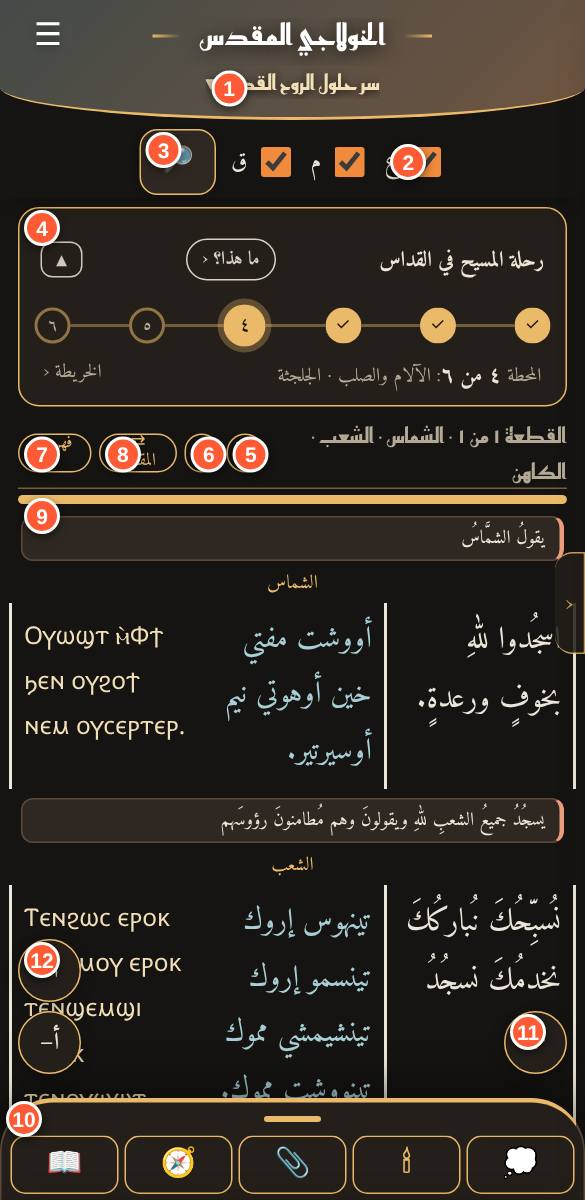
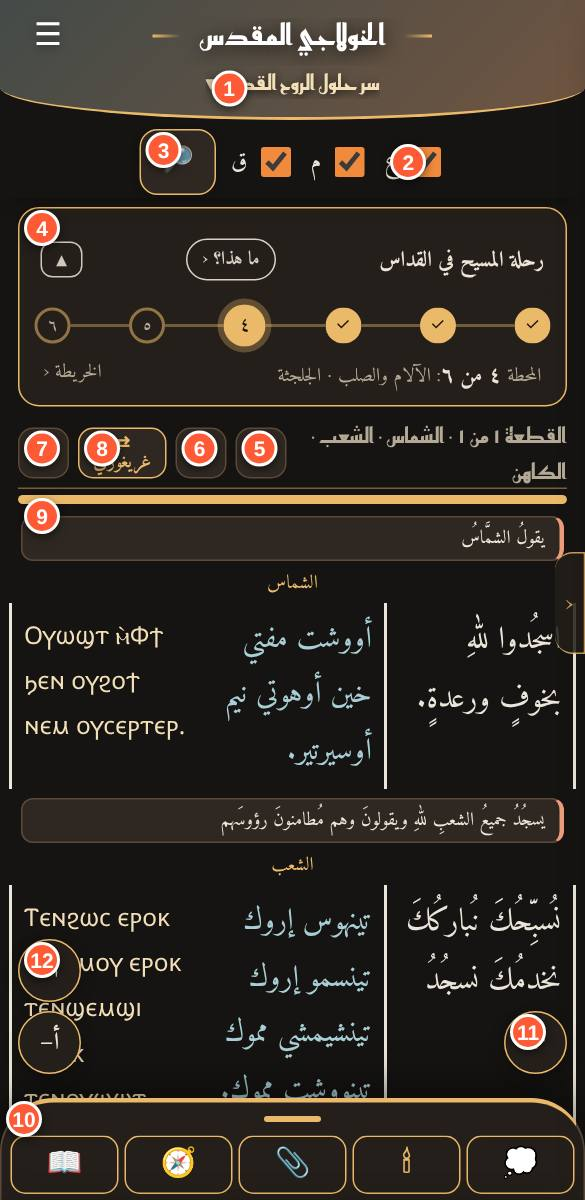
زر المقابل بضغطة واحدة، تمييز صلاتي الصلح، وترتيب أزرار رأس القراءة (r137)
Claude-Session: https://claude.ai/code/session_01TxsQH8W41ZBNhnMhe9bVaK

Changed region(s): [[0.0308, 0.3392, 0.4923, 0.4008]]

diff --git a/index.html b/index.html
@@ -764,6 +764,7 @@ html.ix-open #dxfab,html.ix-open #qfs{display:none!important}
 :root:root .wh{font-family:var(--ff-wh,"Tajawal","Cairo",sans-serif)}
 .ffr{display:grid;grid-template-columns:7.5em 1fr;gap:4px 10px;align-items:center;margin:8px 0}.ffr span{font-size:.9rem;color:var(--mute)}.ffr select{padding:8px;border:1.5px solid var(--line);border-radius:10px;background:var(--card2);color:var(--ink);font-family:inherit}.ffr em{grid-column:1/-1;font-style:normal;font-size:1.1rem;opacity:.9}
 .syb{color:var(--acc);font-weight:700}
+.unh .unhb{gap:6px}.unh .unhb button{height:34px;min-width:34px;padding:0 9px;font-size:1rem;border:1px solid var(--line);border-radius:10px;background:var(--card2);color:var(--ink);display:inline-flex;align-items:center;justify-content:center;gap:4px}.unh .unhb .whb{width:34px;padding:0;font-size:1rem}.unh .unhb .syb{font-size:.78rem;font-weight:700;color:var(--acc);border-color:var(--acc)}
 </style>
 </head>
 <body>
@@ -931,7 +932,8 @@ function plain(t){return String(t).replace(/<[^>]*>/g,"").replace(/\[\^\d+\]/g,"
 function unitParts(id,s,c,us,u,q,cols){
   var U=us[u],n=us.length,isDox=s.group.id==="dox",st={alt:0,dr:S.ex==="drawer"},pct=Math.round((u+1)/n*100);
   var si=(S.story!==false&&window.KST)?storyIdx(id):-1,few=U.med.length<=2;
-  var inner=(si>=0?stripHtml(si):'')+'<div class="unh"><span>القطعة '+ar9(u+1)+' من '+ar9(n)+(U.who?' · '+esc(U.who):'')+'</span><span class="unhb"><button data-whc="1" class="whb'+(S.wh!=="off"?' on':'')+'" aria-label="همسات الصلاة">🕊</button><button data-live="1" aria-label="وضع الكنيسة">🕯</button>'+((window.KS&&KS.syncN(id))?'<button data-syncj="1" class="syb" aria-label="المقابل في القداسات الأخرى">⇄ المقابل</button>':'')+'<button data-uidx="1" aria-label="فهرس القطع">فهرس ▾</button></span></div><div class="unb"><i style="width:'+pct+'%"></i></div>';
+  var syn=window.KS?KS.syncNext(id,u):null,syb=syn?'<button data-syncj="1" class="syb" aria-label="انتقل إلى المقابل في القداس '+KS.lshort[syn.lit]+'" title="اضغط للانتقال، واضغط مطولا لكل المقابلات">⇄ '+KS.lshort[syn.lit]+'</button>':'';
+  var inner=(si>=0?stripHtml(si):'')+'<div class="unh"><span>القطعة '+ar9(u+1)+' من '+ar9(n)+(U.who?' · '+esc(U.who):'')+'</span><span class="unhb"><button data-whc="1" class="whb'+(S.wh!=="off"?' on':'')+'" aria-label="همسات الصلاة">🕊</button><button data-live="1" aria-label="وضع الكنيسة">🕯</button>'+syb+'<button data-uidx="1" aria-label="فهرس القطع" title="فهرس القطع">☰</button></span></div><div class="unb"><i style="width:'+pct+'%"></i></div>';
   var sheetMed=S.med&&U.med.length&&(S.mp!=="after"||S.ml==="drawer");
   var tabs=[],exs=S.ex==="drawer"?U.items.filter(isExp):[];
   if(sheetMed)tabs.push(["b","💭","تأمل"+(U.med.length>1?" ("+ar9(U.med.length)+")":"")]);
@@ -1342,7 +1344,7 @@ app.addEventListener("click",function(e){
   var lt=e.target.closest("[data-lit]");if(lt){S.lit=lt.getAttribute("data-lit");save();home();return}
   var bn=e.target.closest("[data-bn]");if(bn){var k2=bn.getAttribute("data-bn");if(k2==="home"){OPENHOME=true;if(location.hash==="#/"||location.hash===""||location.hash==="#"){todayView()}else location.hash="#/"}else if(k2==="lit")location.hash="#/lit";else if(k2==="lists")location.hash="#/dxlist";else if(k2==="lib")location.hash="#/lib";else if(k2==="search")openSearch();else if(k2==="map")openIdx();else if(k2==="med")location.hash="#/med";else if(k2==="study"){sheet('<h3>دراسة</h3><div class="list"><button class="sec" data-nav="#/compare"><span>مقارنة بين القداسات الثلاثة</span><span class="pn">‹</span></button><button class="sec" data-nav="#/lex"><span>قاموس القبطي المعرَّب</span><span class="pn">‹</span></button><button class="sec" data-nav="#/g/taqs"><span>دليل طقس القداس</span><span class="pn">‹</span></button><button class="sec" data-nav="#/plan"><span>خطتي</span><span class="pn">‹</span></button></div>')}return}
   var m1=e.target.closest("[data-m1]");if(m1){var b1=m1.nextElementSibling,o1=b1.hasAttribute("hidden");o1?b1.removeAttribute("hidden"):b1.setAttribute("hidden","");m1.setAttribute("aria-expanded",o1);var c1=m1.querySelector(".ch");if(c1)c1.textContent=o1?"▴":"▾";return}
-  if(e.target.closest("[data-syncj]")){var sy2=window.KS&&KS.sync(CUR.id);if(sy2)sheet(sy2);return}
+  if(e.target.closest("[data-syncj]")){if(window.__lp){window.__lp=false;return}var sn2=window.KS&&KS.syncNext(CUR.id,CUR.u);if(sn2){usave(sn2.id,sn2.u||0);PL=false;toast("↔ "+KS.lname[sn2.lit]+(sn2.p?" · صلاة الصلح "+(sn2.p===2?"الثانية":"الأولى"):""));location.hash="#/s/"+sn2.id}return}
   var ex=e.target.closest("[data-exp]");if(ex){var eb=ex.nextElementSibling,eo=eb.hasAttribute("hidden");eo?eb.removeAttribute("hidden"):eb.setAttribute("hidden","");ex.setAttribute("aria-expanded",eo);ex.querySelector(".exc").textContent=eo?"▴":"▾";return}
   var wh=e.target.closest("[data-wh]");if(wh){var b2=wh.nextElementSibling,o2=b2.hasAttribute("hidden");o2?b2.removeAttribute("hidden"):b2.setAttribute("hidden","");wh.setAttribute("aria-expanded",o2);wh.firstChild.textContent="🕊 همسة "+(o2?"▴":"▾");return}
   var whc=e.target.closest("[data-whc]");if(whc){var ord=["off","strip","open","drawer"],nx=ord[(ord.indexOf(S.wh)+1)%4];S.wh=nx;save();toast("همسات الصلاة: "+({off:"مخفية",strip:"مطوية",open:"مفتوحة",drawer:"في الدرج السفلي"})[nx]);route();return}
@@ -1495,6 +1497,10 @@ document.addEventListener("click",function(e){
 document.addEventListener("change",function(e){var t=e.target;if(t&&t.getAttribute&&t.getAttribute("data-ffr")){S.fo=Object.assign({},FODEF,S.fo||{});S.fo[t.getAttribute("data-ffr")]=t.value;save();apply();var em=t.parentNode.querySelector("em");if(em)em.style.fontFamily=FFMAP[t.value]}});
 document.addEventListener("input",function(e){if(e.target&&e.target.id==="ixq"){IXQ=e.target.value;var l=document.getElementById("ixl");if(l)l.innerHTML=idxList()}});
 document.addEventListener("keydown",function(e){if(e.key==="Escape")closeIdx()});
+(function(){var tm=null;function clr(){if(tm){clearTimeout(tm);tm=null}}
+  document.addEventListener("pointerdown",function(e){var b=e.target.closest&&e.target.closest("[data-syncj]");if(!b)return;window.__lp=false;clr();tm=setTimeout(function(){tm=null;window.__lp=true;var h=window.KS&&KS.sync(CUR.id);if(h)sheet(h)},550)});
+  ["pointerup","pointercancel","pointerleave","scroll"].forEach(function(t){document.addEventListener(t,clr,true)});
+  document.addEventListener("contextmenu",function(e){if(e.target.closest&&e.target.closest("[data-syncj]"))e.preventDefault()})})();
 /* سحب من حافة اليمين لفتح الفهرس، وسحب لليمين على اللوحة لإغلاقها */
 (function(){
   var st=null,P={passive:true};

diff --git a/tools/make-guide.js b/tools/make-guide.js
@@ -21,7 +21,7 @@ const SPECS=[
 {id:'pre',title:'قبل القداس',hash:'#/pre',summary:'أربع خطوات قصيرة تجهّز بها قبل أن تبدأ.',
  marks:[['.chk@0','١. القداس','اختر الذي ستصليه.'],['.chk@1','٢. قائمتك','القائمة الحالية وعدد أقسامها. «فتح قوائمي» لتعديلها.'],['.chk@2','٣. اقتراحات اليوم','ذكصولوجيات تناسب تاريخ اليوم. ＋ لإضافتها.'],['.chk@3','٤. حجم الخط','اضبطه الآن ليبقى ثابتا طوال القداس.'],['[data-dmgo="lit"]','ابدأ القداس','يبدأ وضع الشماس من آخر مكان أو أول القداس.'],['[data-dmgo="list"]','ابدأ قائمتي','يبدأ القراءة من أول قسم في قائمتك ويتنقّل بترتيبها.']]},
 {id:'reader',title:'القراءة',hash:'#/s/bas-hulul',summary:'شاشة قراءة أي قسم: نص بثلاثة أعمدة (قبطي، معرَّب، عربي) مع إرشادات الطقس.',
- marks:[['#bsub','اسم القسم ▾','اضغط عليه لتنتقل بسرعة لأي قسم آخر.'],['#opts label:nth-of-type(1)','ع · م · ق','تظهر أو تخفي الأعمدة: العربي، المعرَّب، القبطي.'],['#btnSearch','بحث','يبحث في كل نصوص البرنامج.'],['.sts','رحلة المسيح','المحطة التي تقابل هذا الجزء من القداس (تفصيلها في صفحتها).'],['.unh [data-whc]','🕊 همسة','يظهر أو يخفي همسة صلاة قصيرة من وحي القطعة.'],['.unh [data-live]','🕯 وضع الكنيسة','نص كبير داكن للقراءة داخل الكنيسة.'],['.unh [data-uidx]','فهرس','قائمة قطع هذا القسم للانتقال لأي قطعة.'],['.unh .syb','⇄ المقابل','في القداسات الباسيلي والغريغوري والكيرلسي: ينقلك للجزء المقابل في القداسين الآخرين (يظهر حين يوجد مقابل).'],['.unb','شريط التقدم','نسبة ما قرأته في هذا القسم.'],['.unp .rub, .rub','إرشاد (أحمر)','حركات الكاهن والشعب وما يقال.'],['#dsheet','الدرج السفلي','أيقونات فقط: 💭 تأمل، 📝 شروحات، 🕯 إرشادات، 📎 هوامش، 🧭 المحطة، 📖 دليل. اسحبه لأعلى ليفتح ولأسفل ليُغلق، أو اضغط أي أيقونة.'],['#dxfab','＋ / ✓','يضيف القسم لأي قائمة من قوائمك، ويفتح قائمة خياراتها.'],['#qfs','أ+ / أ−','تكبير وتصغير الخط فورا.']],
+ marks:[['#bsub','اسم القسم ▾','اضغط عليه لتنتقل بسرعة لأي قسم آخر.'],['#opts label:nth-of-type(1)','ع · م · ق','تظهر أو تخفي الأعمدة: العربي، المعرَّب، القبطي.'],['#btnSearch','بحث','يبحث في كل نصوص البرنامج.'],['.sts','رحلة المسيح','المحطة التي تقابل هذا الجزء من القداس (تفصيلها في صفحتها).'],['.unh [data-whc]','🕊 همسة','يظهر أو يخفي همسة صلاة قصيرة من وحي القطعة.'],['.unh [data-live]','🕯 وضع الكنيسة','نص كبير داكن للقراءة داخل الكنيسة.'],['.unh [data-uidx]','فهرس','قائمة قطع هذا القسم للانتقال لأي قطعة.'],['.unh .syb','⇄ المقابل','ضغطة واحدة تنقلك إلى مقابل هذا الجزء في القداس التالي (اسمه على الزر)، وضغطة مطوّلة تفتح كل المقابلات. صلاة الصلح الأولى تقابل الأولى والثانية تقابل الثانية.'],['.unb','شريط التقدم','نسبة ما قرأته في هذا القسم.'],['.unp .rub, .rub','إرشاد (أحمر)','حركات الكاهن والشعب وما يقال.'],['#dsheet','الدرج السفلي','أيقونات فقط: 💭 تأمل، 📝 شروحات، 🕯 إرشادات، 📎 هوامش، 🧭 المحطة، 📖 دليل. اسحبه لأعلى ليفتح ولأسفل ليُغلق، أو اضغط أي أيقونة.'],['#dxfab','＋ / ✓','يضيف القسم لأي قائمة من قوائمك، ويفتح قائمة خياراتها.'],['#qfs','أ+ / أ−','تكبير وتصغير الخط فورا.']],
  nav:'للانتقال بين الأجزاء: «التالي» في آخر الصفحة، أو اسحب الشاشة، أو افتح الفهرس. هذه الأزرار تظهر هنا فقط.'},
 {id:'sidx',title:'الفهرس الجانبي',hash:'#/s/bas-hulul',setup:async p=>{await open(p,'#idxh')},summary:'يُفتح بالسحب من حافة اليمين. في أعلاه لوحة أزرار ثابتة بشكل مميّز للانتقال السريع بين الأقسام الكبرى، وتحتها الفهرس.',
  marks:[['.ixqj','انتقال سريع','لوحة أزرار ثابتة أعلى الفهرس (لا تُسحب يمينا ويسارا): اضغط أي قسم لتذهب إليه؛ القسم الحالي مضيء.'],['.ixhome','الصفحة الرئيسية','للرجوع لكل الأقسام الكبرى.']]},

diff --git a/study.js b/study.js
@@ -122,6 +122,27 @@ function syncTargets(id){
   if(id==="cyr-solh"){add(0,"bas-anaphora",false,"افتتاح الأنافورا يقع في آخر هذه الصلاة");add(1,"greg-anaphora",false,"افتتاح الأنافورا يقع في آخر هذه الصلاة")}
   if(id==="greg-solh"||id==="greg-solh2"||id==="cyr-solh")COM_B.forEach(function(t){add(0,t,false,"مشترك قبل الصلح (في الباسيلي)")});
   return out}
+/* القفزة بضغطة واحدة: من القداس الحالي إلى مقابله في القداس التالي (باسيلي ← غريغوري ← كيرلسي ← باسيلي) */
+var LSHORT=["باسيلي","غريغوري","كيرلسي"];
+function litOf(id){return id.indexOf("bas-")===0?0:id.indexOf("greg-")===0?1:id.indexOf("cyr-")===0?2:-1}
+function secondUnit(id){var us=K.unitsOf?K.unitsOf(id):null;if(!us)return -1;
+  for(var i=0;i<us.length;i++){var it=us[i].items||[];for(var j=0;j<it.length;j++){if(it[j].k==="r"){var t=String(it[j].t||"").replace(/[\u064B-\u0652\u0670]/g,"");if(/الصلح الثانية|صلح أخرى|صلح اخرى/.test(t))return i}}}
+  return -1}
+function solhPrayer(id,u){
+  if(id==="greg-solh2")return 2;if(id==="greg-solh")return 1;
+  if(id==="bas-solh"||id==="cyr-solh"){var m=secondUnit(id);return(m>=0&&typeof u==="number"&&u>=m)?2:1}
+  return 0}
+function solhTarget(L,p){
+  if(L===1)return {id:p===2?"greg-solh2":"greg-solh",u:0};
+  var id=L===0?"bas-solh":"cyr-solh";return {id:id,u:p===2?Math.max(0,secondUnit(id)):0}}
+function syncNext(id,u){
+  var l0=litOf(id);if(l0<0)return null;
+  var p=solhPrayer(id,u),tg=null;
+  if(p){var order=[(l0+1)%3,(l0+2)%3];for(var k=0;k<2&&!tg;k++){var t=solhTarget(order[k],p);if(K.BYID[t.id]&&K.BYID[t.id].has)tg={lit:order[k],id:t.id,u:t.u,p:p}}}
+  else{var cand=syncTargets(id).filter(function(x){return x.primary});
+    for(var d=1;d<3&&!tg;d++){var L=(l0+d)%3;for(var q=0;q<cand.length;q++)if(cand[q].lit===L){tg={lit:L,id:cand[q].id,u:0};break}}}
+  if(tg)tg.title=K.BYID[tg.id].title;
+  return tg}
 function syncBar(id){
   var tg=syncTargets(id).filter(function(x){return x.primary&&!x.note});if(!tg.length)return"";
   var b="";tg.forEach(function(x){b+='<button class="lsb" data-u0="1" data-nav="#/s/'+x.id+'">↔ '+LNAME[x.lit]+'</button>'});
@@ -275,5 +296,5 @@ document.addEventListener("click",function(e){
   else if(d==="hide"){var s=S(),h=s.hide||[],i=h.indexOf(t.dataset.g);if(i>-1)h.splice(i,1);else h.push(t.dataset.g);s.hide=h;K.save();K.settings();K.route()}
   else if(d==="export")exportAll();
   else if(d==="install"&&deferred){deferred.prompt();deferred=null;K.close()}});
-window.KS={today:function(){var cd=copticOf(new Date());return {cd:cd,dx:todayDox(cd)}},lex:lexView,linkRefs:linkRefs,guide:guideHtml,rub:rubHtml,home:homeHtml,plan:planView,compare:compare,settings:settingsHtml,apply:applyPrefs,scan:scan,sync:syncSheet,syncN:function(id){return syncTargets(id).length}};
+window.KS={today:function(){var cd=copticOf(new Date());return {cd:cd,dx:todayDox(cd)}},lex:lexView,linkRefs:linkRefs,guide:guideHtml,rub:rubHtml,home:homeHtml,plan:planView,compare:compare,settings:settingsHtml,apply:applyPrefs,scan:scan,sync:syncSheet,syncNext:syncNext,lshort:LSHORT,lname:LNAME,syncN:function(id){return syncTargets(id).length}};
 })();

diff --git a/guide-news.js b/guide-news.js
@@ -1,6 +1,7 @@
 /* سجل الميزات الجديدة (الأحدث أولا). كل ميزة جديدة تُضاف هنا كمدخل جديد في أعلى القائمة،
    ثم تُحدَّث مواصفة الصفحة المتأثرة في tools/make-guide.js وتُعاد اللقطات (node tools/make-guide.js). */
 window.KG_NEWS=[
+{v:"r137",t:"زر المقابل بضغطة واحدة + صلاتا الصلح",x:"زر ⇄ في رأس القراءة ينقلك بضغطة واحدة إلى مقابل الجزء في القداس التالي (باسيلي ← غريغوري ← كيرلسي)، واسمه يبيّن وجهتك، والضغط المطوّل يفتح كل المقابلات. وصلاة الصلح الأولى تقابل الأولى والثانية تقابل الثانية في القداسات الثلاثة. وأزرار الرأس الأربعة (همسة · كنيسة · مقابل · فهرس) رُتّبت بحجم موحّد."},
 {v:"r136",t:"ربط أجزاء الاستعداد والكلمة والأنافورا",x:"زر «⇄ المقابل» صار يربط أيضا الأجزاء المشتركة التي في الكتاب ضمن القداس الباسيلي فقط (الاستعداد والتقدمة والقراءات والإنجيل والأمانة): من الغريغوري والكيرلسي تصل إليها، ومن الباسيلي تصل للجزء الذي يتبعها (الحجاب أو الصلح). وأُضيف ربط افتتاح الأنافورا وجزء التناول."},
 {v:"r135",t:"المقابل بين القداسات الثلاثة",x:"في القراءة، زر «⇄ المقابل» بجوار الفهرس يفتح قائمة بالجزء المقابل في القداسين الآخرين (باسيلي · غريغوري · كيرلسي) لتنتقل بينها مباشرة. وأُعيدت مراجعة المقابلات بحسب موضع كل جزء من الأنافورا (الصلح، مستحق، قدوس، التجسد، التقديس، حلول الروح، الأواشي، المجمع، الترحيم، القسمة، الاعتراف، التناول، البركة)."},
 {v:"r134",t:"خط مستقل لكل نوع نص + الإعدادات مطوية دائما",x:"لم يعد الخط يغيّر كل شيء. في الإعدادات › «الخطوط» تختار خطا لكل نوع على حدة: العناوين والهيدر، النص العربي، المعرَّب، الإرشادات الحمراء، التأملات، الشروحات، الهمسات. صفحة الإعدادات والقوائم لها خط ثابت لا يتأثر. وكل مجموعات الإعدادات تبدأ مطوية في كل مرة تفتح فيها الإعدادات."},

diff --git a/sw.js b/sw.js
@@ -1,4 +1,4 @@
-const CACHE_NAME='khulagi-v1.5-shell-r136';
+const CACHE_NAME='khulagi-v1.5-shell-r137';
 const FILES=['./','index.html','guide-news.js','guide-pages.js','guide/doxologies.jpg','guide/library.jpg','guide/lists.jpg','guide/lit.jpg','guide/notes.jpg','guide/post.jpg','guide/pre.jpg','guide/reader.jpg','guide/settings.jpg','guide/sidx.jpg','guide/splash.jpg','guide/story.jpg','guide/today.jpg','reemkufi-arabic-700-normal.woff2','dawn.jpg','data.js','study.js','swipe.js','live.js','story.js','study-data.js','data-bible.js','content-raf.txt','content-bas.txt','content-greg.txt','content-cyr.txt','content-qisam.txt','content-misc.txt','content-bless.txt','content-app.txt','content-taqs.txt','content-dox.txt','manifest.webmanifest','icon-192.png','icon-512.png','amiri-arabic-400-normal.woff2','amiri-arabic-700-normal.woff2','amiri-latin-400-normal.woff2','tajawal-arabic-400.woff2','tajawal-latin-400.woff2','tajawal-arabic-700.woff2','tajawal-latin-700.woff2','cairo-arabic-400-normal.woff2','cairo-arabic-700-normal.woff2','el-messiri-arabic-400-normal.woff2','el-messiri-arabic-700-normal.woff2','lateef-arabic-400-normal.woff2','lateef-arabic-700-normal.woff2','markazi-text-arabic-400-normal.woff2','markazi-text-arabic-700-normal.woff2','noto-naskh-arabic-arabic-400-normal.woff2','noto-naskh-arabic-arabic-700-normal.woff2','reem-kufi-arabic-400-normal.woff2','reem-kufi-arabic-700-normal.woff2','scheherazade-new-arabic-400-normal.woff2','scheherazade-new-arabic-700-normal.woff2','amiri-latin-700-normal.woff2','noto-sans-coptic-coptic-400-normal.woff2','noto-sans-coptic-latin-400-normal.woff2'];
 self.addEventListener('install',e=>{e.waitUntil(caches.open(CACHE_NAME).then(c=>Promise.all(FILES.map(f=>c.add(new Request(f,{cache:'reload'})).catch(()=>{})))).then(()=>self.skipWaiting()))});
 self.addEventListener('activate',e=>{e.waitUntil(caches.keys().then(k=>Promise.all(k.filter(x=>x!==CACHE_NAME).map(x=>caches.delete(x)))).then(()=>self.clients.claim()))});

diff --git a/guide-pages.js b/guide-pages.js
@@ -180,7 +180,7 @@ window.KG_PAGES=[
    [
     8,
     "⇄ المقابل",
-    "في القداسات الباسيلي والغريغوري والكيرلسي: ينقلك للجزء المقابل في القداسين الآخرين (يظهر حين يوجد مقابل)."
+    "ضغطة واحدة تنقلك إلى مقابل هذا الجزء في القداس التالي (اسمه على الزر)، وضغطة مطوّلة تفتح كل المقابلات. صلاة الصلح الأولى تقابل الأولى والثانية تقابل الثانية."
    ],
    [
     9,
